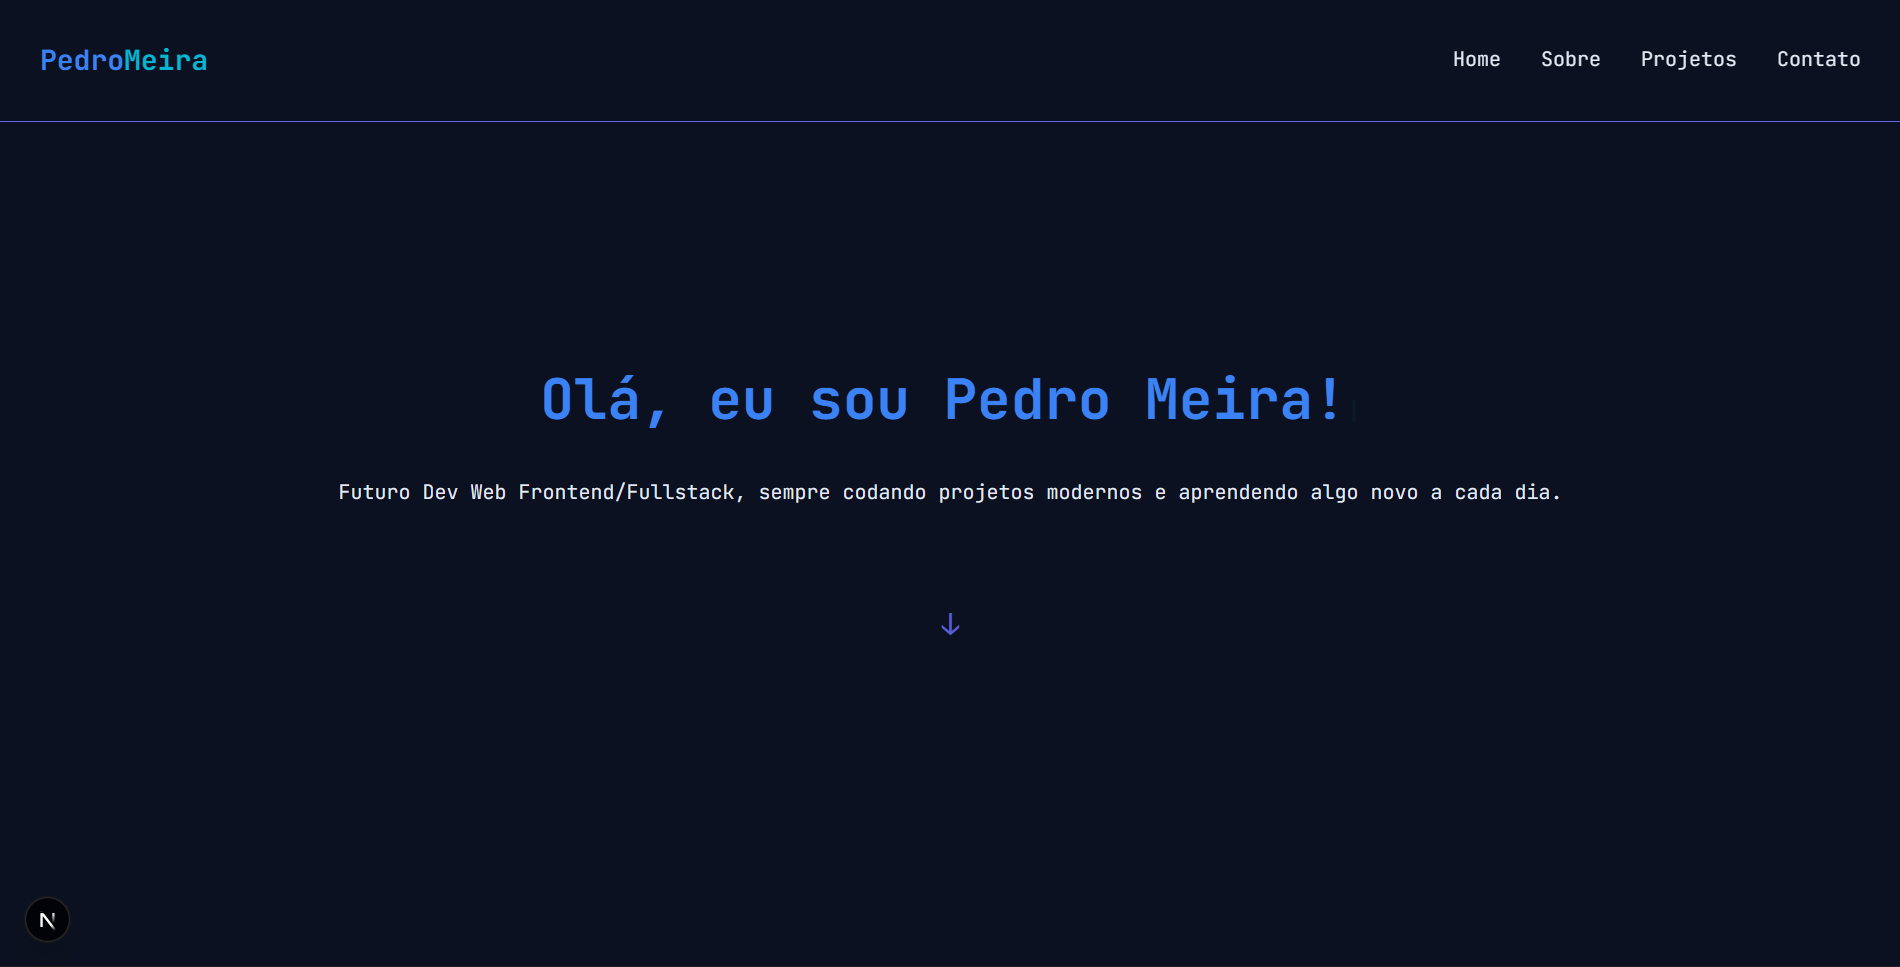
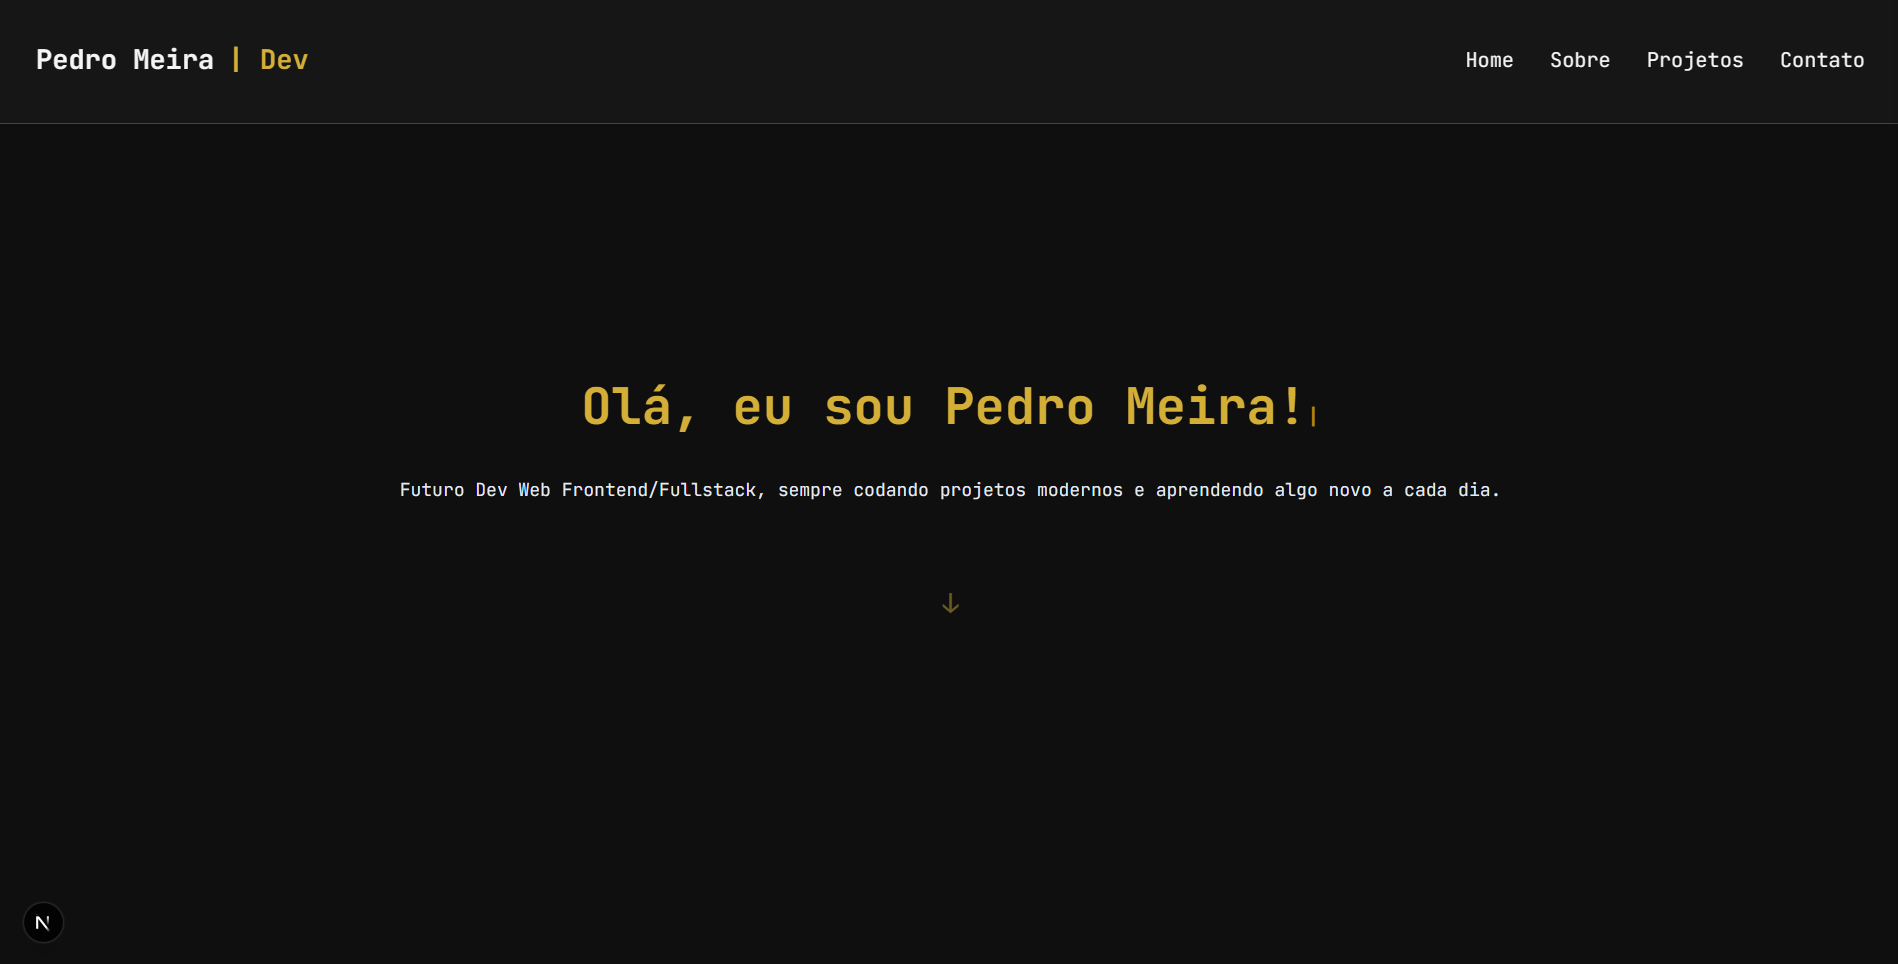
Adicionando novas sessoes com responsividade incluida

diff --git a/src/styles/globals.css b/src/styles/globals.css
@@ -2,15 +2,21 @@
 
 
 :root {
- --background: #0b1120;
-  --foreground: #e5eaf5;
+ /* Paleta base */
+  --background: #0f0f0f;    
+  --background-alt: #1a1a1a; 
+  --foreground: #e0e0e0;   
+  --light: #f5f5f5;          
 
-  --primary: #3b82f6;     /* azul */
-  --secondary: #06b6d4;   /* ciano suave */
-  --accent: #6366f1;      /* roxo suave */
+  /* Cores principais */
+  --primary: #d4af37;        
+  --secondary: #b8860b;      
+  --tertiary: #6c6c6c;       
+  --accent: #444;            
 
-  --muted: #94a3b8;
-  --text: #e5eaf5;
+  /* Apoio */
+  --muted: #94a3b8;         
+  --text: #e5eaf5;          
 }
 
 

diff --git a/src/pages/index.js b/src/pages/index.js
@@ -6,6 +6,7 @@ import About from "@/components/About";
 import Projects from "@/components/ProjectSection";
 import Contact from "@/components/Contact"
 import Footer from "@/components/Footer";
+import Skills from "@/components/Skills"
 
 export default function Home() {
   return (
@@ -26,6 +27,10 @@ export default function Home() {
 
         <section>
         <About/>
+        </section>
+
+        <section>
+          <Skills/>
         </section>
 
         <section>
